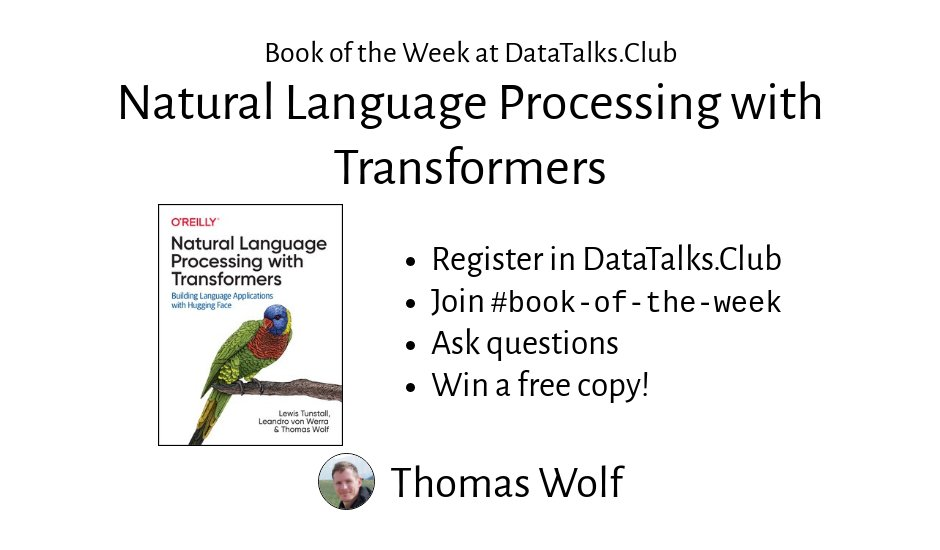
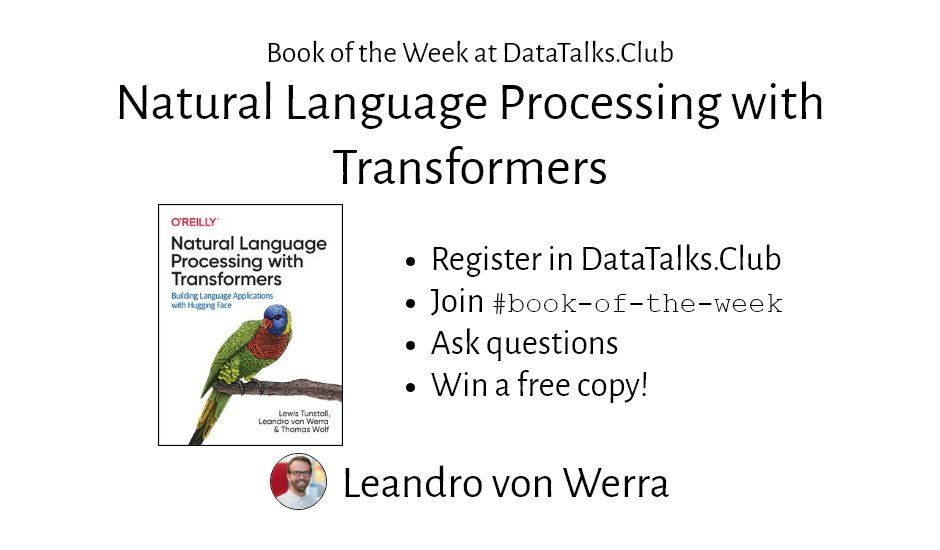
updated info

diff --git a/_books/20220425-natural-language-processing-with-transformers.md b/_books/20220425-natural-language-processing-with-transformers.md
@@ -1,9 +1,11 @@
 ---
 authors:
+- leandrovonwerra
+- lewistunstall
 - thomaswolf
 cover: images/books/20220425-natural-language-processing-with-transformers/cover.jpg
-description: Book of the Week. Natural Language Processing with Transformers by Thomas
-  Wolf
+description: Book of the Week. Natural Language Processing with Transformers by Leandro
+  von Werra, Lewis Tunstall and Thomas Wolf
 end: 2022-04-29 23:59:59
 image: images/books/20220425-natural-language-processing-with-transformers/preview.jpg
 links:
